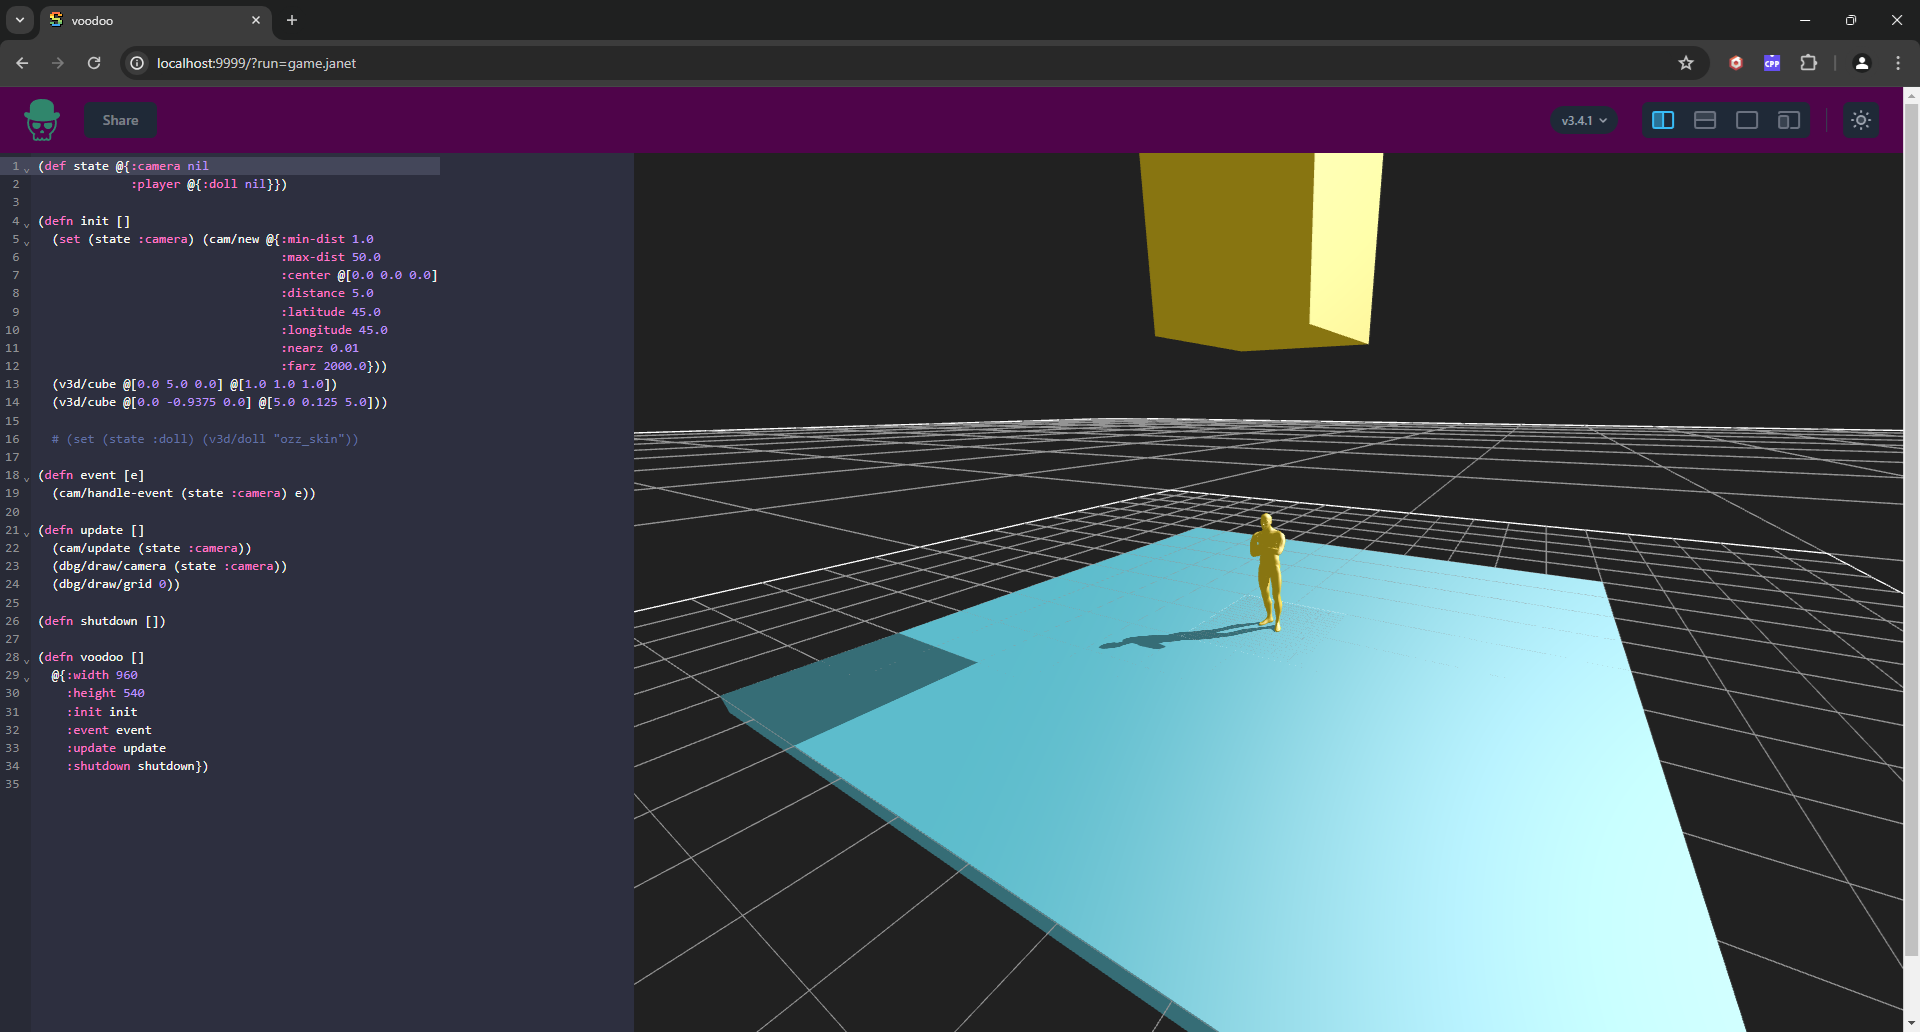
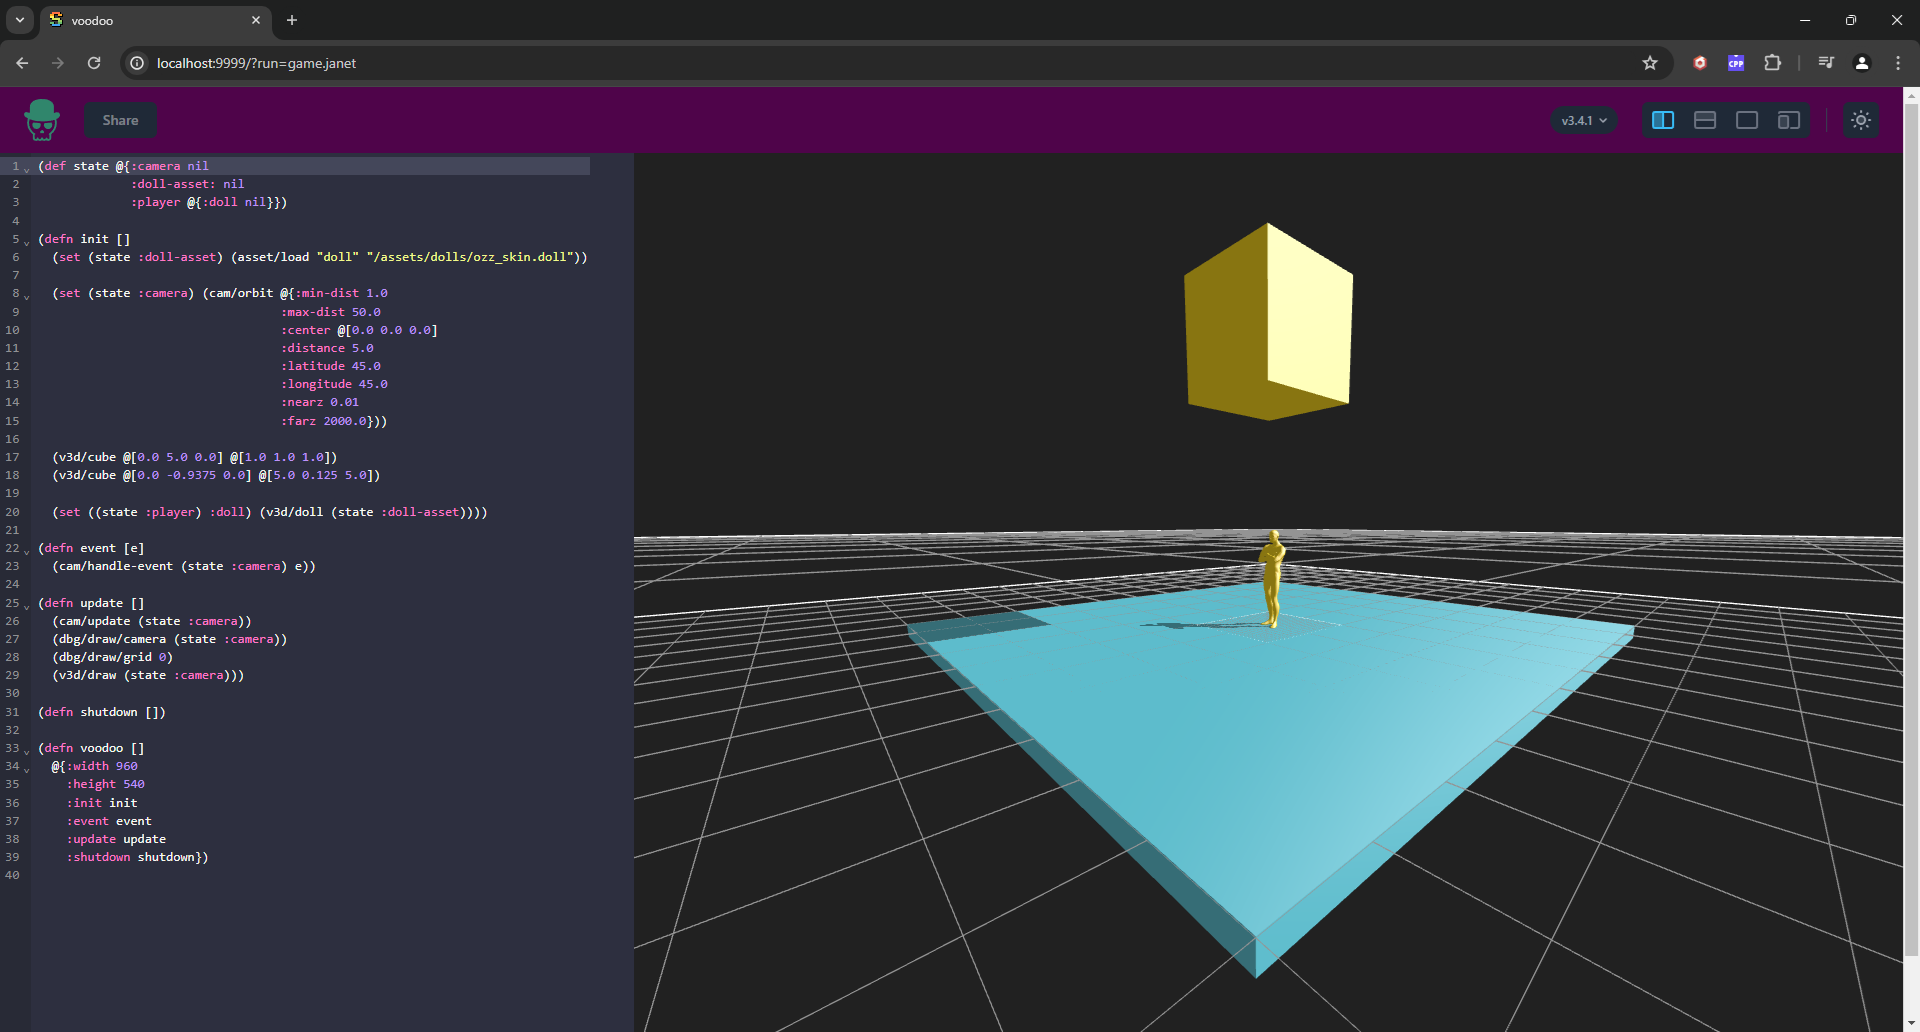
loading assets and creating dolls via janet now

diff --git a/voodoo.h b/voodoo.h
@@ -52,6 +52,7 @@ static Janet cfun_vd_dbg_draw_cube(int32_t argc, Janet *argv);
 static Janet cfun_vd_dbg_draw_grid(int32_t argc, Janet *argv);
 
 static Janet cfun_vd_v3d_cube(int32_t argc, Janet *argv);
+static Janet cfun_vd_v3d_doll(int32_t argc, Janet *argv);
 static Janet cfun_vd_v3d_draw(int32_t argc, Janet *argv);
 // static Janet cfun_vd_ecs_component(int32_t argc, Janet *argv);
 
@@ -69,8 +70,8 @@ static const JanetReg vd__cfuns[] = {
     {"dbg/draw/grid", cfun_vd_dbg_draw_grid, "(voodoo/dbg/draw/grid)\n\nDraw a debug grid."},
     {"v3d/cube", cfun_vd_v3d_cube, "(voodoo/v3d/cube)\n\nCreate a cube."},
     {"v3d/draw", cfun_vd_v3d_draw, "(voodoo/v3d/draw)\n\nDraw a frame."},
+    {"v3d/doll", cfun_vd_v3d_doll, "(voodoo/v3d/doll)\n\nCreate a doll."},
     // {"ecs/component", cfun_vd_ecs_component, "(voodoo/ecs/component)\n\nCreate a component."},
-    // {"v3d/doll", cfun_vd_v3d_doll, "(voodoo/v3d/doll)\n\nCreate a doll asset."}
     {NULL, NULL, NULL}};
 #endif // VOODOO_INCLUDED
 
@@ -2793,8 +2794,9 @@ void vd__asset_shutdown()
 static Janet cfun_vd_asset_load(int32_t argc, Janet *argv)
 {
     janet_fixarity(argc, 2);
-    vd__asset_load(janet_getcstring(argv, 0), janet_getcstring(argv, 1), &(vd__v3d_doll_load_params){}, 0, NULL, 0);
-    return janet_wrap_nil();
+    vd__asset_handle hnd = vd__asset_load(janet_getcstring(argv, 0), janet_getcstring(argv, 1),
+                                          &(vd__v3d_doll_load_params){}, VD__ASSET_LOAD_FLAG_WAIT_ON_LOAD, NULL, 0);
+    return janet_wrap_abstract(&hnd);
 }
 
 //   __________  __
@@ -2933,8 +2935,6 @@ static void vd__script_shutdown(void)
 // \___/_/ |_/_/  /_/___/_/|_/_/ |_|
 //
 // >>camera
-
-static const JanetAbstractType vd__cam_event = {"voodoo/cam/event", JANET_ATEND_NAME};
 
 #define CAMERA_DEFAULT_MIN_DIST (2.0f)
 #define CAMERA_DEFAULT_MAX_DIST (30.0f)
@@ -3451,10 +3451,6 @@ static vd__asset_load_data vd__v3d_doll_on_prepare(const vd__asset_load_params *
     printf("mesh loaded from %s: %s\n", mesh_filepath, ozz_load_failed(doll->ozz) ? "true" : "false");
 
     printf("all loaded: %s\n", ozz_all_loaded(doll->ozz) ? "true" : "false");
-
-    ecs_entity_t e = ecs_new_id(vd__state.ecs.world);
-    ecs_set(vd__state.ecs.world, e, vd__doll,
-            {0.0f, 0.0, ozz_vertex_buffer(doll->ozz), ozz_index_buffer(doll->ozz), doll});
 
     printf("done preparing doll!\n");
     return (vd__asset_load_data){.obj.ptr = doll};
@@ -4029,6 +4025,17 @@ static Janet cfun_vd_v3d_cube(int32_t argc, Janet *argv)
     janet_fixarity(argc, 2);
     vd__v3d_cube(vd__unwrap_vec3(argv[0]), vd__unwrap_vec3(argv[1]));
     return janet_wrap_nil();
+}
+
+static Janet cfun_vd_v3d_doll(int32_t argc, Janet *argv)
+{
+    janet_fixarity(argc, 1);
+    vd__asset_handle *hnd = (vd__asset_handle *)janet_unwrap_abstract(argv[0]);
+    vd__v3d_doll *doll = (vd__v3d_doll *)vd__asset_obj_get(*hnd).ptr;
+    ecs_entity_t e = ecs_new_id(vd__state.ecs.world);
+    ecs_set(vd__state.ecs.world, e, vd__doll,
+            {0.0f, 0.0, ozz_vertex_buffer(doll->ozz), ozz_index_buffer(doll->ozz), doll});
+    return janet_wrap_u64(e);
 }
 
 static Janet cfun_vd_v3d_draw(int32_t argc, Janet *argv)
